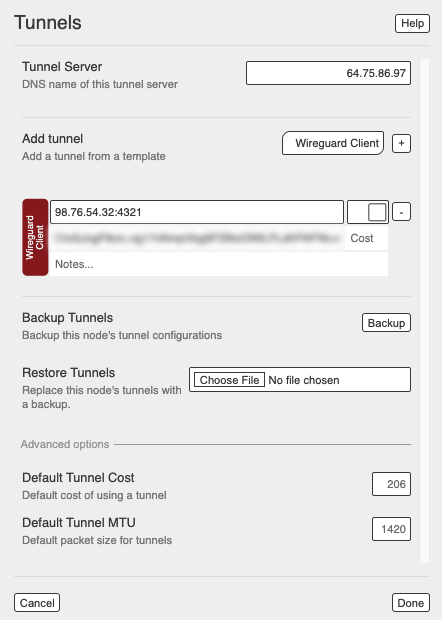
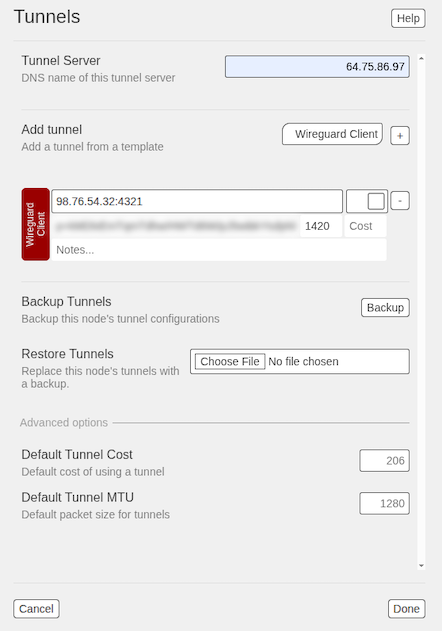
add per tunnel mtu setting (#595)

diff --git a/arednGettingStarted/node_admin.rst b/arednGettingStarted/node_admin.rst
@@ -963,7 +963,7 @@ To add a tunnel connection, click in the field at the right to select from the d
 
 Be aware that without proper time synchronization, Wireguard will not establish tunnels. Make sure that an NTP or GPS time source is reachable at boot time so that the key exchange between the client and server will happen correctly. If mesh based NTP servers are available, ask the owners to advertise them as services to ensure that time synchronization happens across your mesh network even if the Internet is not available. Review the **Local Services** section above for instructions on advertising a local NTP server.
 
-For each tunnel definition there is a *Cost* or tunnel weight field. The global default tunnel cost is configured under *Advanced Options* as described below, but you can override this value on a per tunnel basis. Leave this field empty to accept the global default, or enter a tunnel cost to override the default if you desire. Each tunnel definition also has a *Notes* field in which you may enter helpful notes about the tunnel link. The switch on the right is ``enabled`` by default, but it appears gray until the tunnel connection is established, at which time it will be green.
+For each tunnel definition there are *MTU* and *Cost* fields. The global default MTU and tunnel cost are configured under *Advanced Options* as described below, but you can override this value on a per tunnel basis. Leave this field empty to accept the global default, or enter a custom MTU or tunnel cost to override the default if required. Each tunnel definition also has a *Notes* field in which you may enter helpful notes about the tunnel link. The switch on the right is ``enabled`` by default, but it appears gray until the tunnel connection is established, at which time it will be green.
 
 Wireguard Client
   Select *Wireguard Client* from the dropdown list and click the [+] icon. For tunnel client credentials, contact the Amateur Radio operator who controls the tunnel server you want to connect to and request client credentials by providing your specific node name. The tunnel server administrator will send you the public IP or hostname for the tunnel server field, the key you are to use, and the network IP address & port for your client node. If your client credentials were provided using the method described below for servers, you can highlight and copy the entire set of values, click into one of the fields on your tunnel client row, and when you paste into one of the fields then all of the credentials will be automatically entered into the correct fields for you. Otherwise, you can manually enter these values into the appropriate fields on your node.
@@ -983,7 +983,7 @@ Default Tunnel Cost
   The weighting factor used by the routing protocol to determine the link cost of sending traffic via the tunnel. This value is a global default, but you can override the tunnel cost by providing an individual per-tunnel value as described above.
 
 Default Tunnel MTU
-  The default packet size (MTU). If your WAN network requires smaller packets than usual, this can be set between 1280 and 1420. Changing this global default will affect all tunnels on your node. Remember to change the MTU size on the other end of tunnels to match.
+  The default packet size (MTU). If your WAN network requires smaller packets than usual, this can be set between 1280 and 1420. Remember to change the MTU size on the other end of tunnels to match.
 
 You can click the ``Cancel`` button to ignore any changes you made on this display. When you are finished with your changes, click the ``Done`` button. You will then be returned to your node's *admin* view where you will be able to ``Commit`` or ``Revert`` any changes.
 
